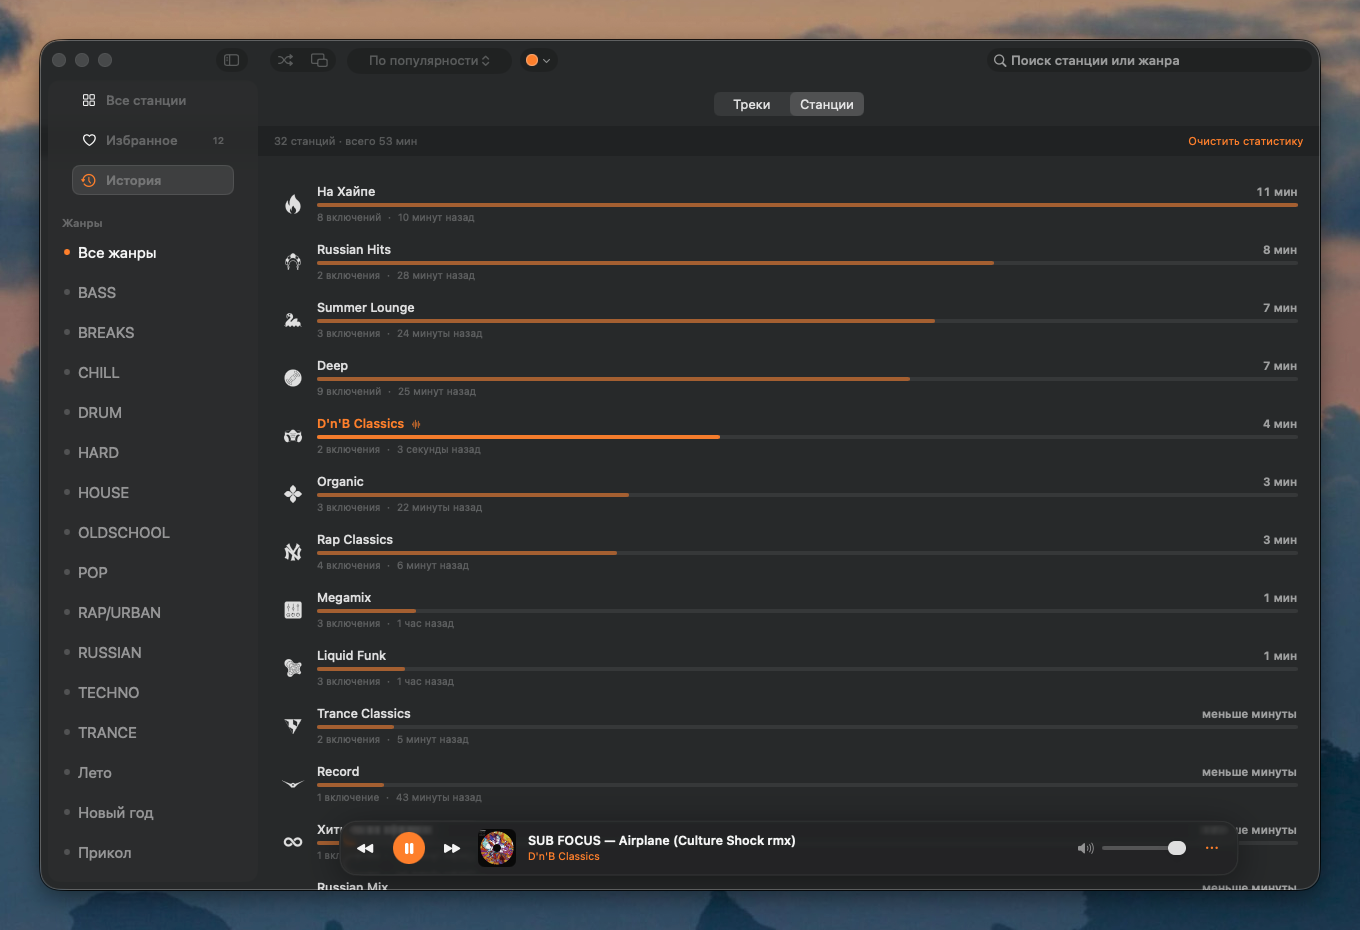
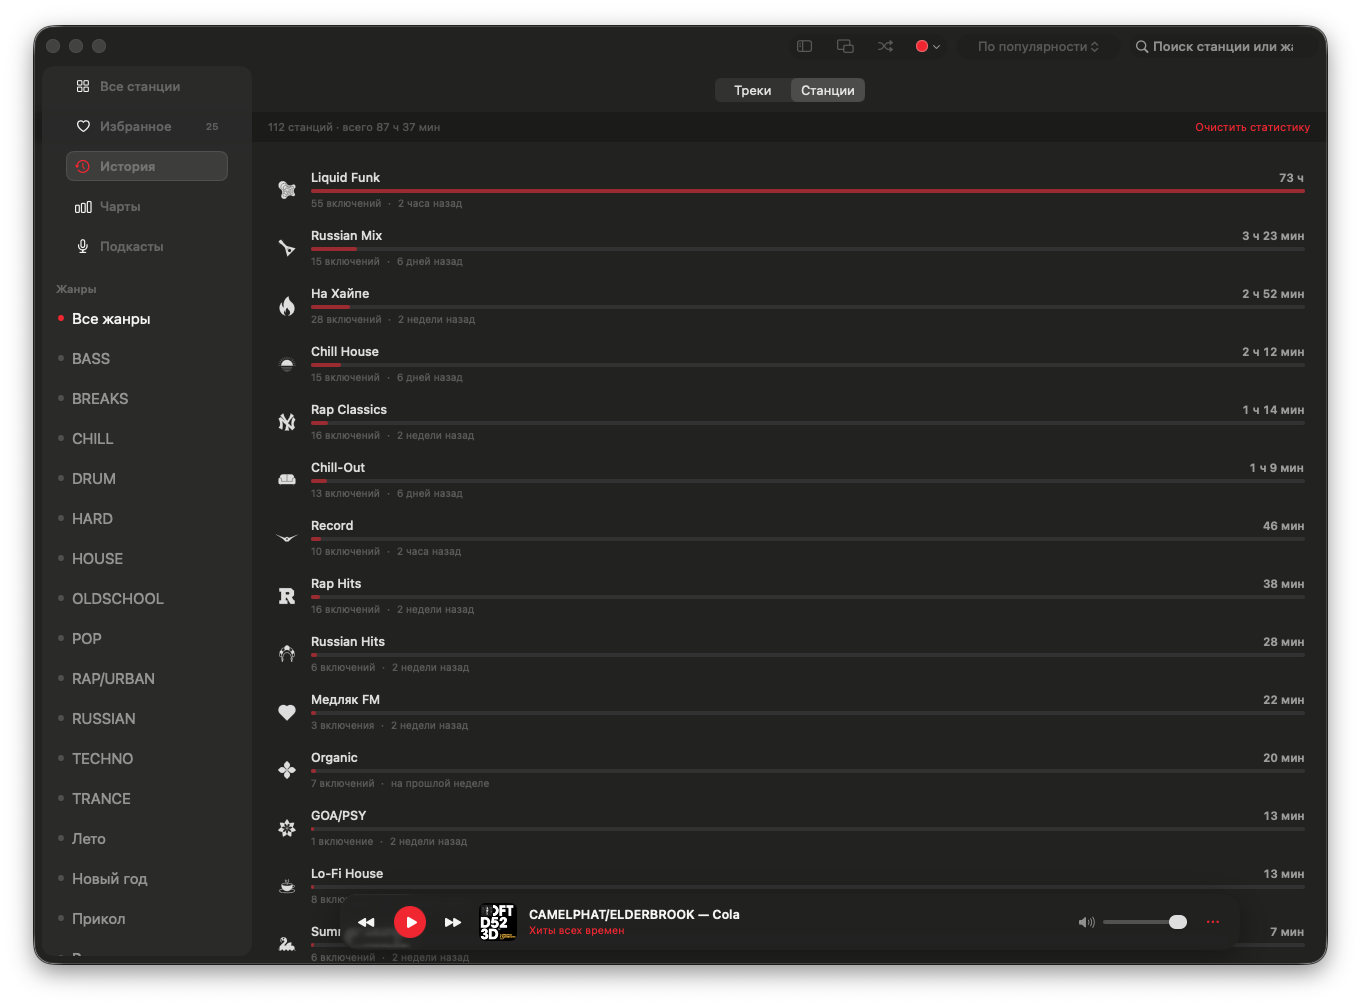
Обновить README и скриншоты под Record 2.0
Прежний набор снят до появления «Чартов» и «Подкастов»: в боковой панели
было три пункта вместо пяти, а на части снимков — ещё и старый тулбар.

- Пересняты все экраны радио: каталог, избранное, история, статистика,
  поиск и полный режим станции.
- Добавлены три новых экрана: чарты, каталог подкастов и выпуски подкаста
  с полосой перемотки играющего выпуска.
- Мини-плеер переснят с видимым управлением, английский снимок теперь
  показывает раздел чартов.
- Вместо выпадающего списка палитр — приложение в другом акценте: смысл тот
  же, а снимок не устаревает при следующей правке тулбара.
- Галерея перенумерована подряд, битых ссылок нет.
- В таблицу горячих клавиш добавлены ⌘[ и ⌘] для перемотки выпуска и ⌘F.

Скриншоты сняты одноразовой сборкой, открывавшей нужный экран по переменной
окружения: без разрешения на Универсальный доступ окно приложения не поднять
и по нему не кликнуть. Исходники после съёмки возвращены, рабочее дерево
чистое, статистика и прогресс выпусков восстановлены из резервной копии.

Changed region(s): [[0.0, 0.0, 1.0, 1.0]]

diff --git a/docs/screenshots/README.md b/docs/screenshots/README.md
@@ -1,30 +1,32 @@
 # Record screenshot gallery
 
-Финальный набор скриншотов интерфейса для README, релизных заметок и страницы проекта.
+Скриншоты интерфейса Record 2.0 для README, релизных заметок и страницы проекта.
+Сняты на macOS 26 в тёмной теме, акцент — красный, если не указано иное.
 
-## Основные экраны
+## Радио
 
 ### Все станции
 
-Главный каталог с жанрами, карточками станций и стеклянным плеером.
+Главный каталог: жанры в боковой панели, карточки станций с текущим треком и
+плавающая пилюля плеера поверх сетки.
 
 ![Все станции](01-all-stations.png)
 
 ### Избранное
 
-Сохранённые станции в компактной сетке.
+Сохранённые станции в той же сетке.
 
 ![Избранное](02-favorites.png)
 
-### История
+### История треков
 
-История прослушивания с треками, станциями и временем воспроизведения.
+Что играло на слушанных станциях, с обложками, временем и переходом в Apple Music.
 
 ![История](03-history.png)
 
 ### Статистика прослушивания
 
-Локальная статистика по станциям и времени прослушивания.
+Локальная статистика: время по станциям и количество включений. Данные не покидают Mac.
 
 ![Статистика прослушивания](04-listening-stats.png)
 
@@ -36,52 +38,66 @@
 
 ### Полный режим станции
 
-Расширенный экран с крупной обложкой текущего трека, управлением и историей эфира.
+Крупная обложка текущего трека, управление станцией и история эфира за последние сутки.
 
 ![Полный режим станции](06-full-station.png)
 
-### Полный режим с боковой панелью
+## Чарты и подкасты
 
-Адаптивная компоновка того же экрана при открытой навигации по жанрам.
+### Чарты
 
-![Полный режим с боковой панелью](12-full-station-sidebar.png)
+Суперчарт, Клаб чарт и Новинки. У позиции есть обложка, тридцатисекундный фрагмент,
+переход в Apple Music и копирование названия.
+
+![Чарты](07-charts.png)
+
+### Подкасты
+
+Каталог из десяти шоу Radio Record с метками новых выпусков.
+
+![Подкасты](08-podcasts.png)
+
+### Выпуски подкаста
+
+Список выпусков с группировкой по дням и поиском, слева — обложка, кнопка
+воспроизведения и полоса перемотки играющего выпуска.
+
+![Выпуски подкаста](09-podcast-episodes.png)
 
 ## Плеер и системные элементы
 
-### Настройки воспроизведения
-
-Качество потока, таймер сна, история треков и быстрые действия.
-
-![Настройки воспроизведения](07-player-options.png)
-
 ### Мини-плеер
 
-Отдельное компактное окно с обложкой, управлением и регулировкой громкости.
+Отдельное квадратное окно с обложкой, управлением и громкостью.
 
-![Мини-плеер](08-mini-player.png)
+![Мини-плеер](10-mini-player.png)
 
 ### Плеер в строке меню
 
-Быстрый доступ к текущему треку и избранным станциям без открытия основного окна.
+Текущий трек, избранные станции и основные кнопки без открытия главного окна.
 
-![Плеер в строке меню](09-menubar-player.png)
+![Плеер в строке меню](11-menubar-player.png)
 
-### Цветовые акценты
+## Оформление и язык
 
-Системная и пользовательские акцентные палитры интерфейса.
+### Акцентный цвет
 
-![Цветовые акценты](10-accent-palettes.png)
+Акцент выбирается в верхней панели: красный, нейтральный, оранжевый, зелёный,
+голубой, розовый и фиолетовый. На снимке — голубой.
+
+![Акцентный цвет](12-accent-color.png)
 
 ### English interface
 
-Главный экран с автоматически выбранной английской локализацией macOS.
+Интерфейс на английском — язык выбирается автоматически по настройкам macOS.
+Названия жанров приходят от API Radio Record и остаются на русском.
 
-![English interface](11-all-stations-english.png)
+![English interface](13-english-interface.png)
 
-## Рекомендуемый набор для главного README
+## Набор для главного README
 
 - Обложка проекта: `01-all-stations.png`
-- Ключевые возможности: `02-favorites.png`, `03-history.png`, `05-search.png`, `06-full-station.png`, `12-full-station-sidebar.png`
-- Интерфейс плеера: `07-player-options.png`, `08-mini-player.png`, `09-menubar-player.png`
-- Персонализация: `10-accent-palettes.png`
-- Английская версия: `11-all-stations-english.png`
+- Новое в 2.0: `07-charts.png`, `08-podcasts.png`, `09-podcast-episodes.png`
+- Радио: `06-full-station.png`, `02-favorites.png`, `03-history.png`, `05-search.png`
+- Плеер: `10-mini-player.png`, `11-menubar-player.png`
+- Оформление и язык: `12-accent-color.png`, `13-english-interface.png`

diff --git a/README.md b/README.md
@@ -51,9 +51,13 @@ xattr -dr com.apple.quarantine /Applications/Record.app
 
 ### Интерфейс
 
-| Полный режим станции | Режим с боковой панелью |
+| Чарты | Подкасты |
 |---|---|
-| ![Полный режим станции](docs/screenshots/06-full-station.png) | ![Полный режим станции с боковой панелью](docs/screenshots/12-full-station-sidebar.png) |
+| ![Чарты](docs/screenshots/07-charts.png) | ![Подкасты](docs/screenshots/08-podcasts.png) |
+
+| Выпуски подкаста | Полный режим станции |
+|---|---|
+| ![Выпуски подкаста](docs/screenshots/09-podcast-episodes.png) | ![Полный режим станции](docs/screenshots/06-full-station.png) |
 
 | Избранное | История треков |
 |---|---|
@@ -65,9 +69,9 @@ xattr -dr com.apple.quarantine /Applications/Record.app
 
 | Мини-плеер | Плеер в строке меню |
 |---|---|
-| ![Мини-плеер](docs/screenshots/08-mini-player.png) | ![Плеер в строке меню](docs/screenshots/09-menubar-player.png) |
+| ![Мини-плеер](docs/screenshots/10-mini-player.png) | ![Плеер в строке меню](docs/screenshots/11-menubar-player.png) |
 
-[Посмотреть все 12 скриншотов](docs/screenshots)
+[Посмотреть все 13 скриншотов](docs/screenshots)
 
 ### Горячие клавиши
 
@@ -76,7 +80,9 @@ xattr -dr com.apple.quarantine /Applications/Record.app
 | `Пробел` или `⌘P` | Играть или поставить на паузу |
 | `⌥⌘M` | Открыть мини-плеер |
 | `⌘→` и `⌘←` | Следующая или предыдущая станция |
+| `⌘]` и `⌘[` | Вперёд или назад на 15 секунд в выпуске подкаста |
 | `⇧⌘R` | Случайная станция |
+| `⌘F` | Перейти в поиск станций |
 | `⌘↑` и `⌘↓` | Изменить громкость |
 | `⌘M` | Выключить или включить звук |
 
@@ -143,19 +149,23 @@ Record requires macOS 14 or later. It uses native Liquid Glass on macOS 26 and A
 
 ### Interface
 
-| Full station view | Full view with sidebar |
+| Charts | Podcasts |
 |---|---|
-| ![Full station view](docs/screenshots/06-full-station.png) | ![Full station view with sidebar](docs/screenshots/12-full-station-sidebar.png) |
+| ![Charts](docs/screenshots/07-charts.png) | ![Podcasts](docs/screenshots/08-podcasts.png) |
 
-| Main window in English | Player options |
+| Podcast episodes | Full station view |
 |---|---|
-| ![English interface](docs/screenshots/11-all-stations-english.png) | ![Player options](docs/screenshots/07-player-options.png) |
+| ![Podcast episodes](docs/screenshots/09-podcast-episodes.png) | ![Full station view](docs/screenshots/06-full-station.png) |
 
-| Search | Accent colors |
+| Interface in English | Accent color |
 |---|---|
-| ![Search](docs/screenshots/05-search.png) | ![Accent colors](docs/screenshots/10-accent-palettes.png) |
+| ![English interface](docs/screenshots/13-english-interface.png) | ![Accent color](docs/screenshots/12-accent-color.png) |
 
-[View all 12 screenshots](docs/screenshots)
+| Search | Menu bar player |
+|---|---|
+| ![Search](docs/screenshots/05-search.png) | ![Menu bar player](docs/screenshots/11-menubar-player.png) |
+
+[View all 13 screenshots](docs/screenshots)
 
 ### Keyboard shortcuts
 
@@ -164,7 +174,9 @@ Record requires macOS 14 or later. It uses native Liquid Glass on macOS 26 and A
 | `Space` or `⌘P` | Play or pause |
 | `⌥⌘M` | Open the mini player |
 | `⌘→` and `⌘←` | Next or previous station |
+| `⌘]` and `⌘[` | Skip forward or back 15 seconds in a podcast episode |
 | `⇧⌘R` | Play a random station |
+| `⌘F` | Jump to station search |
 | `⌘↑` and `⌘↓` | Change volume |
 | `⌘M` | Mute or unmute |
 
